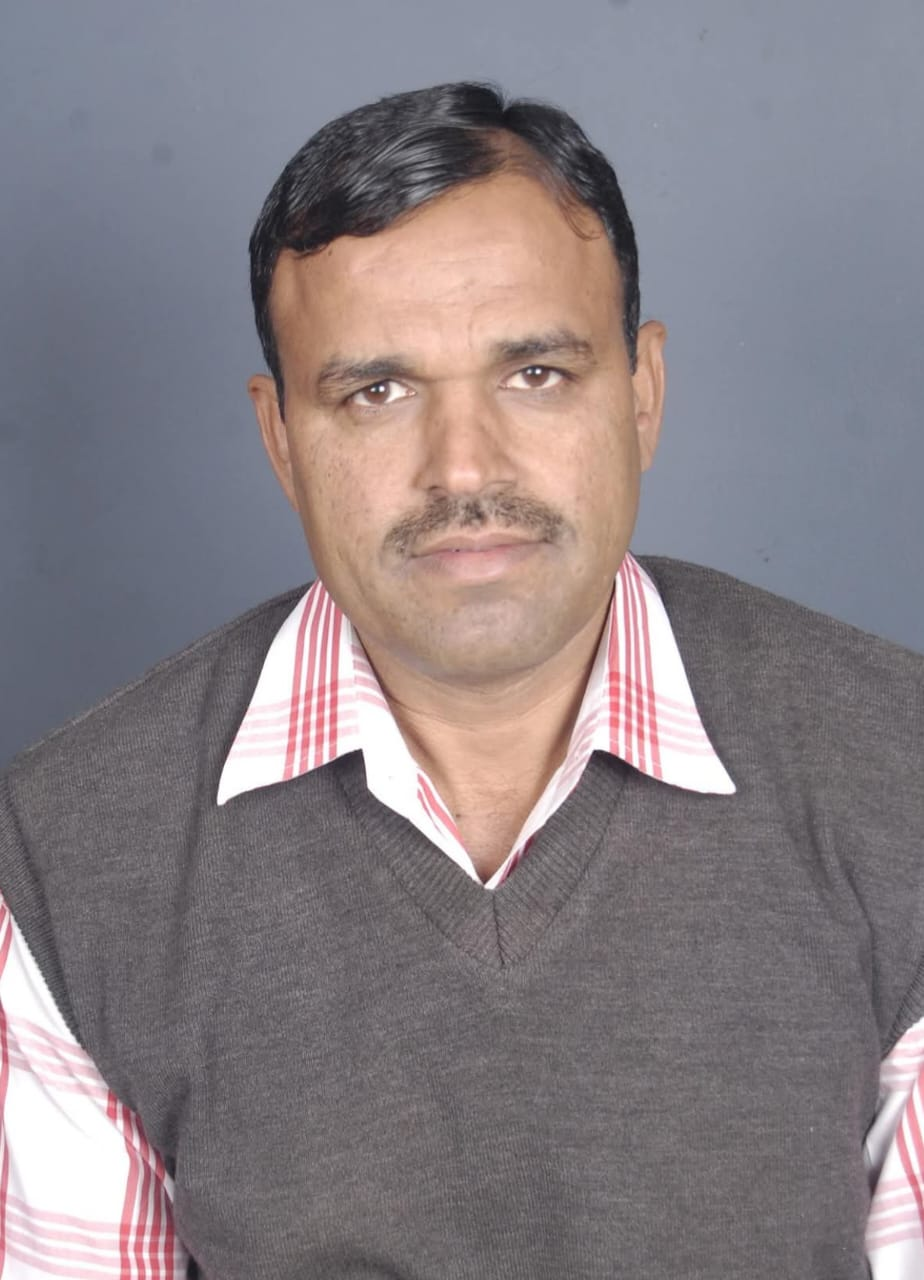
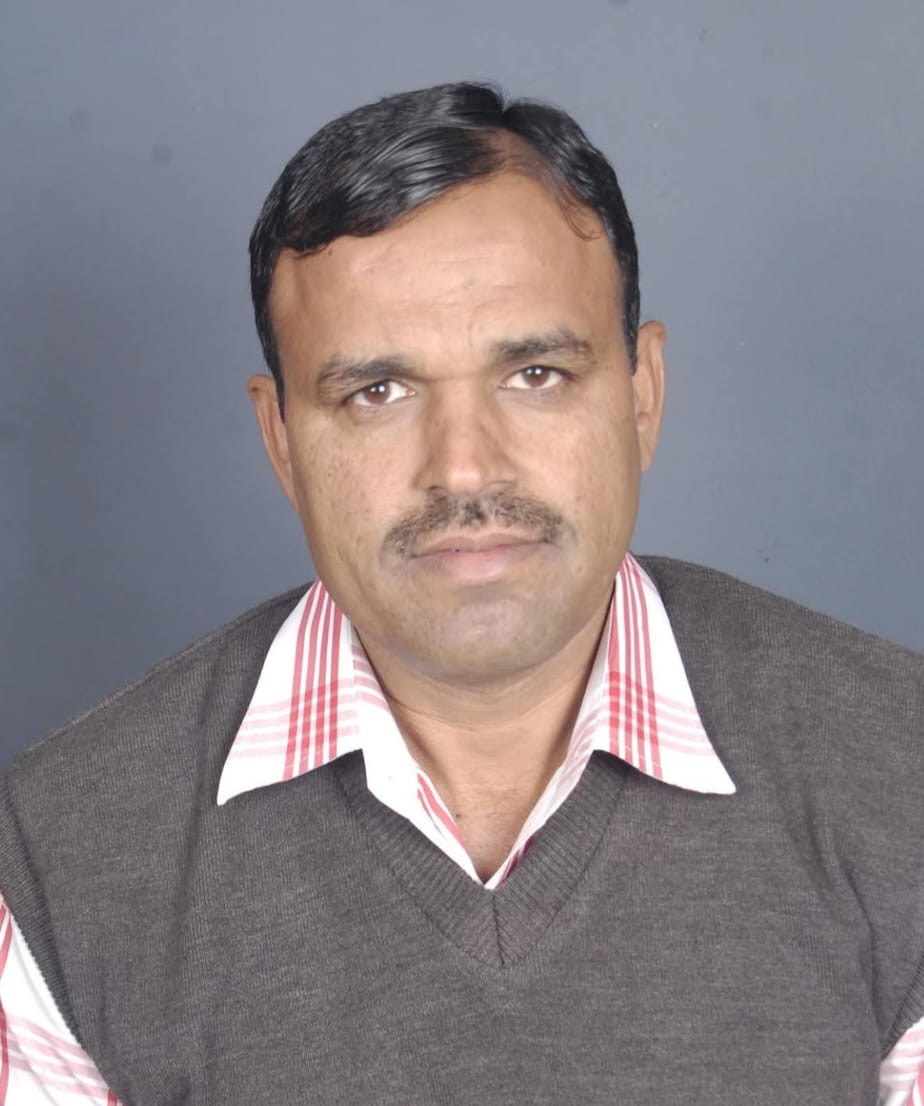
32. Added compressed photos

diff --git a/contact.html b/contact.html
@@ -198,7 +198,7 @@
     <section class="contact-hero">
       <div class="contact-hero-inner">
         <h1 class="fade-in-up">
-          <span class="lang-en">Get in Touch</span>
+          <span class="lang-en">Get in Touch!</span>
           <span class="lang-hi">संपर्क करें</span>
         </h1>
         <p class="hero-sub fade-in-up delay-1">
